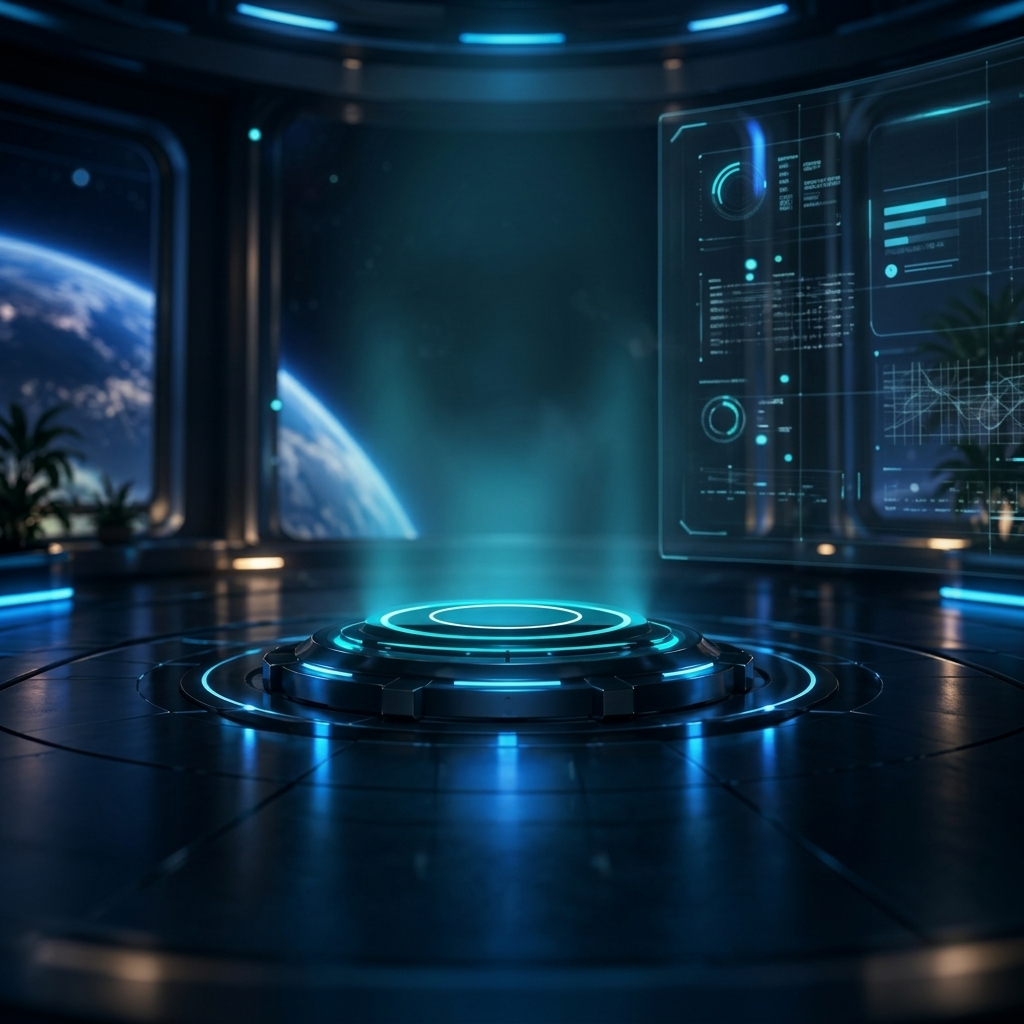
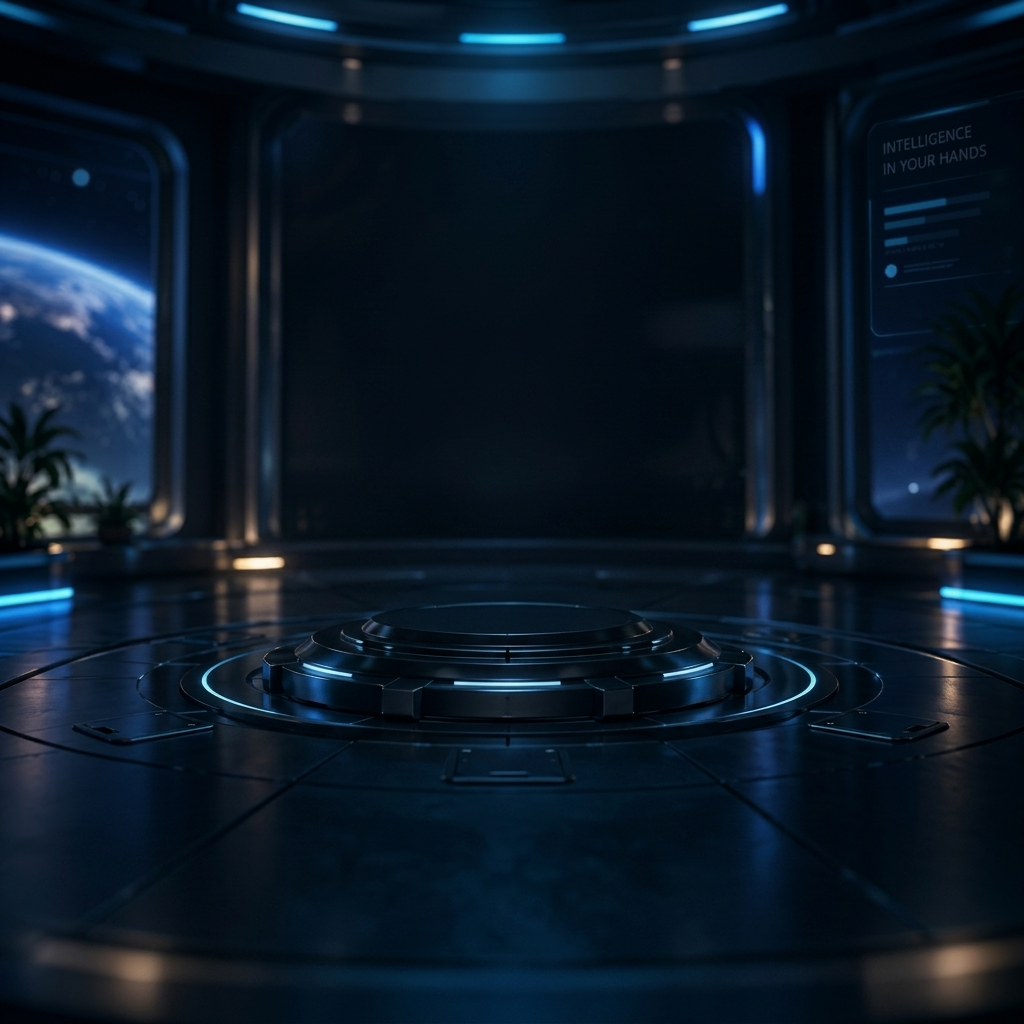
Turn off all light beams and render Arc Reactor hardware structure with crisp 100% visibility in unlit mode

diff --git a/signal-ui/src/modules/central-hologram/JarvisReactor.jsx b/signal-ui/src/modules/central-hologram/JarvisReactor.jsx
@@ -100,14 +100,48 @@ export const JarvisReactor = ({ state = 'idle', className = '' }) => {
 
   const currentState = state || 'idle';
 
-  // Dynamic Color Constants for SVG elements
-  const mainStroke = isErrorState ? 'rgba(255, 30, 80, 0.95)' : 'rgba(0, 240, 255, 0.95)';
-  const secondaryStroke = isErrorState ? 'rgba(255, 80, 0, 0.75)' : 'rgba(0, 200, 255, 0.75)';
-  const dimStroke = isErrorState ? 'rgba(255, 0, 85, 0.45)' : 'rgba(0, 240, 255, 0.45)';
-  const coreFill = isErrorState ? 'url(#redFusionGrad)' : 'url(#centralFusionGrad)';
-  const beamFill = isErrorState ? 'url(#redBeamGrad)' : 'url(#upwardBeamGrad)';
-  const blockFill = isErrorState ? 'rgba(52, 4, 16, 0.95)' : 'rgba(2, 24, 52, 0.9)';
-  const blockStroke = isErrorState ? '#ff0055' : '#00f0ff';
+  // Dynamic Color Constants for SVG elements (Lit vs Unlit Hardware OFF mode)
+  const mainStroke = isErrorState
+    ? 'rgba(255, 30, 80, 0.95)'
+    : isDormantState
+    ? 'rgba(56, 189, 248, 0.85)' // Crisp unlit cyan stroke
+    : 'rgba(0, 240, 255, 0.95)';
+
+  const secondaryStroke = isErrorState
+    ? 'rgba(255, 80, 0, 0.75)'
+    : isDormantState
+    ? 'rgba(148, 163, 184, 0.75)' // Crisp unlit slate stroke
+    : 'rgba(0, 200, 255, 0.75)';
+
+  const dimStroke = isErrorState
+    ? 'rgba(255, 0, 85, 0.45)'
+    : isDormantState
+    ? 'rgba(71, 85, 105, 0.7)' // Clear unlit dark slate stroke
+    : 'rgba(0, 240, 255, 0.45)';
+
+  const coreFill = isErrorState
+    ? 'url(#redFusionGrad)'
+    : isDormantState
+    ? 'rgba(15, 23, 42, 0.95)' // UNLIT SOLID METALLIC CORE (LIGHT OFF!)
+    : 'url(#centralFusionGrad)';
+
+  const beamFill = isErrorState
+    ? 'url(#redBeamGrad)'
+    : isDormantState
+    ? 'transparent' // ZERO UPWARD LIGHT BEAM WHEN OFF!
+    : 'url(#upwardBeamGrad)';
+
+  const blockFill = isErrorState
+    ? 'rgba(52, 4, 16, 0.95)'
+    : isDormantState
+    ? 'rgba(15, 23, 42, 0.95)' // Unlit dark metallic block
+    : 'rgba(2, 24, 52, 0.9)';
+
+  const blockStroke = isErrorState
+    ? '#ff0055'
+    : isDormantState
+    ? '#38bdf8' // Sharp unlit cyan stroke
+    : '#00f0ff';
 
   return (
     <div
@@ -450,7 +484,7 @@ export const JarvisReactor = ({ state = 'idle', className = '' }) => {
             cx="400"
             cy="380"
             r="8"
-            fill={isErrorState ? '#ffe5ec' : '#e0f8ff'}
+            fill={isErrorState ? '#ffe5ec' : isDormantState ? '#475569' : '#e0f8ff'}
           />
         </g>
       </svg>

diff --git a/signal-ui/src/modules/central-hologram/JarvisReactor.css b/signal-ui/src/modules/central-hologram/JarvisReactor.css
@@ -186,16 +186,18 @@
 
 /* 5. DYNAMIC STATE MODIFIERS */
 
-/* DORMANT MODE (Unpowered Hardware Mode: Reactor core sits on pedestal, lights & movement OFF) */
+/* DORMANT MODE (Power-Off Mode: Physical reactor structure 100% clearly visible, lights & movement OFF) */
 .jarvis-reactor-container[data-state="dormant"] .jarvis-reactor-svg {
-  opacity: 0.38 !important;
-  filter: grayscale(0.8) opacity(0.6) !important;
-  transition: opacity 0.8s ease-in-out, filter 0.8s ease-in-out;
+  opacity: 0.95 !important;
+  filter: none !important;
+  transition: opacity 0.6s ease-in-out, filter 0.6s ease-in-out;
 }
 
-/* Turn off glowing light beams and radar sweep when turned off */
-.jarvis-reactor-container[data-state="dormant"] .radar-scan-sweep {
+/* Turn off light beams, glowing radar sweep, and glow filters when turned off */
+.jarvis-reactor-container[data-state="dormant"] .radar-scan-sweep,
+.jarvis-reactor-container[data-state="dormant"] filter {
   opacity: 0 !important;
+  display: none !important;
 }
 
 /* Stop all rotation, dash spins, and pulsing when turned off */

diff --git a/signal-ui/src/modules/central-hologram/ObservatoryView.jsx b/signal-ui/src/modules/central-hologram/ObservatoryView.jsx
@@ -115,7 +115,7 @@ export const ObservatoryView = () => {
             background: currentState === 'error'
               ? 'radial-gradient(circle, rgba(255,0,85,0.55) 0%, rgba(180,0,50,0.2) 50%, transparent 80%)'
               : currentState === 'dormant'
-              ? 'radial-gradient(circle, rgba(0,240,255,0.08) 0%, transparent 60%)'
+              ? 'transparent'
               : 'radial-gradient(circle, rgba(0,240,255,0.38) 0%, rgba(59,130,246,0.18) 50%, transparent 80%)',
           }}
         />
